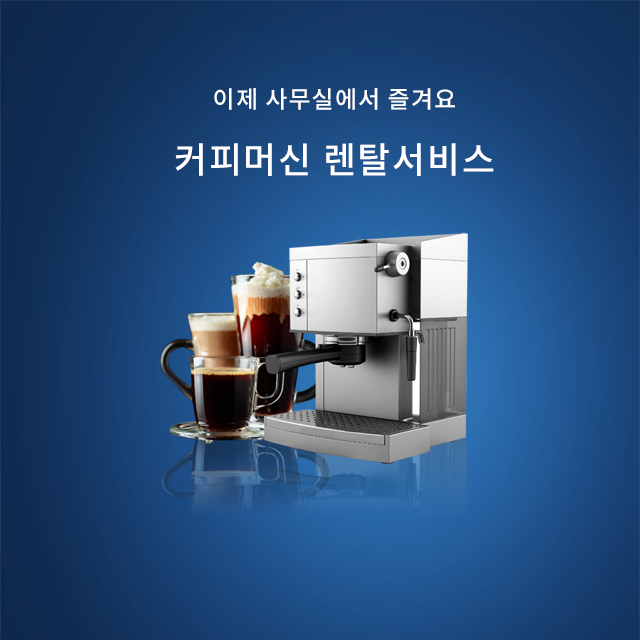
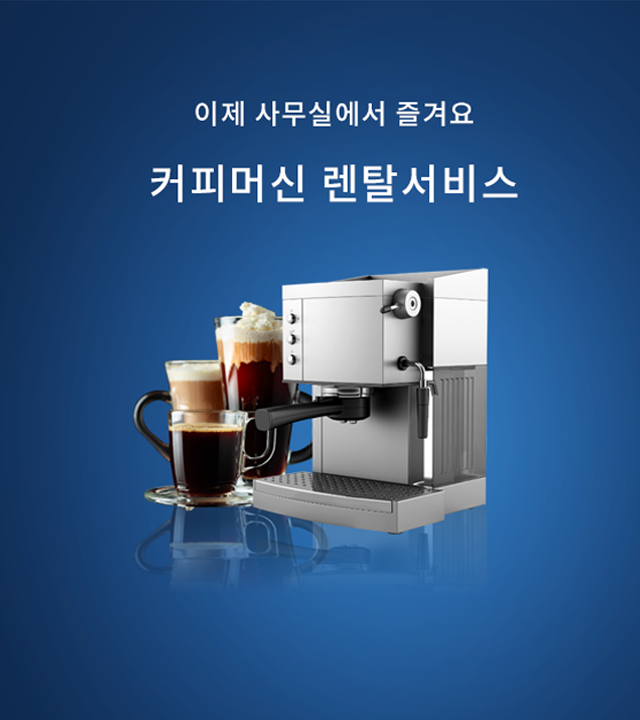
반응형 new!

Changed region(s): [[0.1875, 0.3438, 0.7812, 0.8125], [0.2188, 0.2188, 0.8125, 0.2812], [0.3125, 0.125, 0.75, 0.1875]]

diff --git a/common/css/common.css b/common/css/common.css
@@ -84,8 +84,15 @@ address{font-style: normal;}
     .mMenuArea .gnbArea .twoD{background-color: #fff; padding: 0 15px;border-bottom: 1px solid #dadada; display: none;}
     .mMenuArea .gnbArea .twoD > ul > li> a{ display: block; padding: 13px 15px;border-bottom: 1px solid #dadada;}
     .mMenuArea .gnbArea .twoD > ul > li:hover> a{color: #5987c5;font-weight: 500;}
-    #cBody .swiper-wrapper .slider3 .info{display: none;}
-    #cBody .mainCon1 .mainIco+.mainIco{padding-left:35px;}
+    #cBody .mainVisArea .swiper-wrapper .slider3 .info{display: none;}
+    #cBody .mainVisArea .swiper-button-prev,#cBody .mainVisArea .swiper-button-next{width:7%; height:7%;}
+    #cBody .mainCon1{width: 100%;}
+    #cBody .mainCon1 .container{display: flex;justify-content: center;}
+    #cBody .mainCon1 .mainIco{display: grid; grid-template-columns:100px;padding-left: 0;}
+    #cBody .mainCon1 .mainIco img{width: 100%;}
+    #cBody .mainCon1 .mainIco .tit{font-size: 16px;}
+    #cBody .mainCon1 .mainIco .txt{font-size: 14px;}
+    #cBody .mainCon1 .mainIco+.mainIco{padding-left:30px;}
     #cBody .mainCon2 .newArea{width: 100%;}
     #cBody .mainCon2 .mainCon2Bg{ background-image:url(../images/new_bg_m.png); background-size: cover; }
     #cBody .mainCon2 .newArea .boxArea{display: flex;justify-content: center;}

diff --git a/common/js/main.js b/common/js/main.js
@@ -57,8 +57,6 @@ $(function(){
 //반응형 비주얼
 $(function(){
   var $setElem =$('.swiper-slide .switch'),
-        pcSize ="_",
-        mSize ="_m",
         $width = window.innerWidth,
         replacewidth=756;
     $setElem.each(function(){
@@ -67,12 +65,12 @@ $(function(){
         function imgSize(){
             if(window.innerWidth < replacewidth){
                 console.log('반응형 실행');
-                $this.attr('src',$this.attr('src').replace(pcSize,mSize)).css({
+                $this.attr('src',$this.attr('src').replace("_.png","_m.png")).css({
                     visibility:'visible',
                     width:'100%',
                 });
             }else{
-               $this.attr('src',$this.attr('src').replace(mSize,pcSize)).css({
+               $this.attr('src',$this.attr('src').replace("_m.png","_.png")).css({
                     visibility:'visible',
                 });
             }

diff --git a/common/css/main.css b/common/css/main.css
@@ -10,7 +10,9 @@
 .mainVisArea .swiper-container .swiper-button-prev{width: 60px; height: 60px; background: url(../images/mainVis_previous.svg) no-repeat center center; opacity: 0.8; left: 40px; transition: all 0.3s;}
 .mainVisArea .swiper-container .swiper-button-prev:hover{opacity: 0.5;}
 .mainVisArea .swiper-container .swiper-button-prev:after{display: none;}
-
+.swiper-container-vertical > .swiper-wrapper {
+  flex-direction: column-reverse;
+}
 /*common*/
 .mainCon{width: 1180px; margin: 0 auto;}
 
